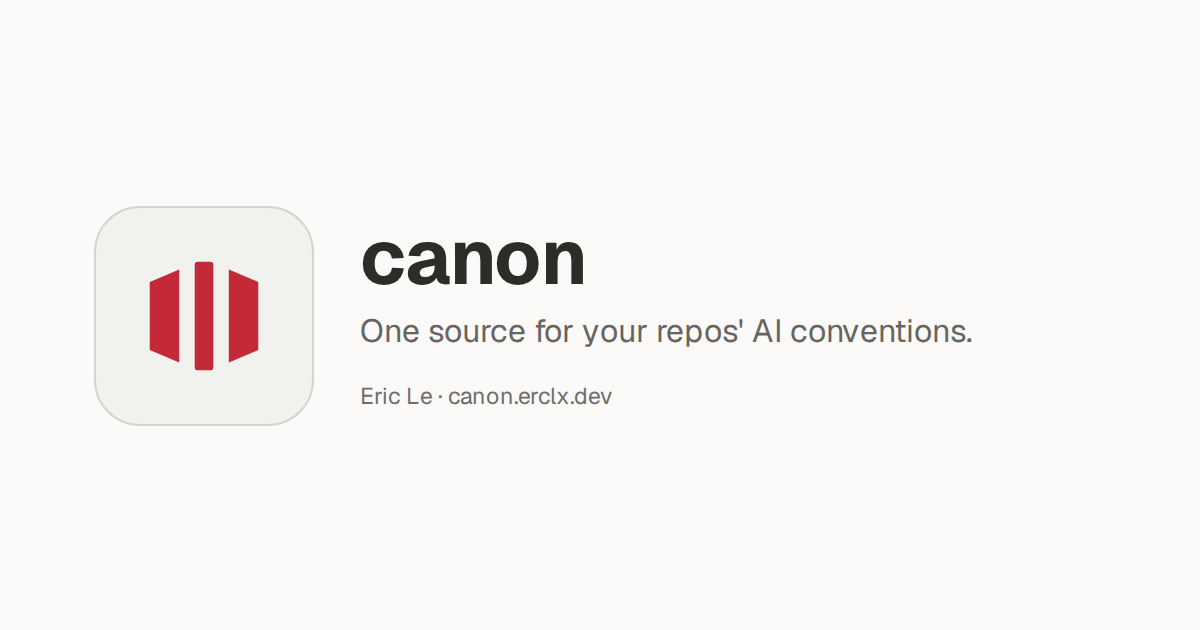
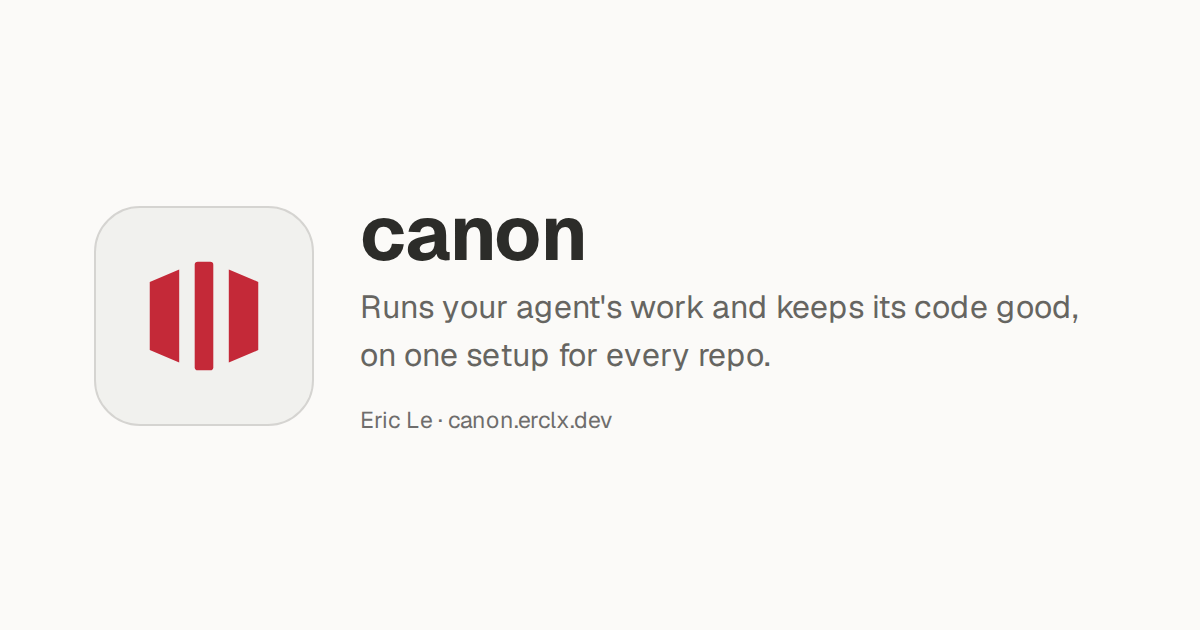
feat(web): carry the one-liner and short variant on every surface

Changed region(s): [[0.2775, 0.3317, 0.8942, 0.6937]]

diff --git a/web/src/content/copy.ts b/web/src/content/copy.ts
@@ -28,8 +28,9 @@ export const site = {
   // README.md: canon-allow-readme-paraphrase: describes the page's own shape, which the README never states.
   description:
     'One real session, from the ask to the merge. What happened, and which part of canon caused it.',
-  // README.md: canon-allow-readme-paraphrase: the plugin's slogan, stated in `.claude-plugin/marketplace.json`'s description rather than the README.
-  tagline: "One source for your repos' AI conventions.",
+  // README.md: canon-allow-readme-paraphrase: the short variant of the README's opening sentence, which is also the `description` in `package.json` and both manifests, kept equal by `positioning.test.ts`.
+  tagline:
+    "Runs your agent's work and keeps its code good, on one setup for every repo.",
   /** The copyright holder `LICENSE` names, which the social card signs with. */
   author: 'Eric Le',
 }
@@ -59,8 +60,8 @@ export const nav = {
 
 export const fold = {
   headline: ['Watch it run.', 'That is the documentation'],
-  // README.md: canon-allow-readme-paraphrase: "canon is a CLI and Claude Code plugin that stops your AI conventions drifting apart across repositories" "runs on itself"
-  lead: 'canon is a CLI and Claude Code plugin that stops your AI conventions drifting apart across repositories. Below is one real session it ran on itself.',
+  // README.md: canon-allow-readme-paraphrase: "canon is a CLI and Claude Code plugin that runs your agent's work from plan to merge" "runs on itself"
+  lead: "canon is a CLI and Claude Code plugin that runs your agent's work from plan to merge, holds it to the practices that make code worth keeping, and installs the same setup in every repository. Below is one real session it ran on itself.",
   primary: { label: 'Install canon', href: `${REPO}#install` },
   secondary: { label: 'Read the session', href: '#ask' },
   // README.md: canon-allow-readme-paraphrase: "Every AI coding setup accumulates the same assets" condensed to what a project holds before an install.
@@ -495,8 +496,8 @@ export const close = {
 }
 
 export const footer = {
-  // README.md: canon-allow-readme-paraphrase: condenses the opening paragraph's "keeps one authoritative copy and installs it into each project on demand"
-  line: 'A CLI and a Claude Code plugin. One authoritative copy, installed into each project on demand.',
+  // README.md: canon-allow-readme-paraphrase: the short variant of the README's opening sentence, behind a first sentence naming the two surfaces.
+  line: "A CLI and a Claude Code plugin. Runs your agent's work and keeps its code good, on one setup for every repo.",
   columns: [
     {
       title: 'Reference',
